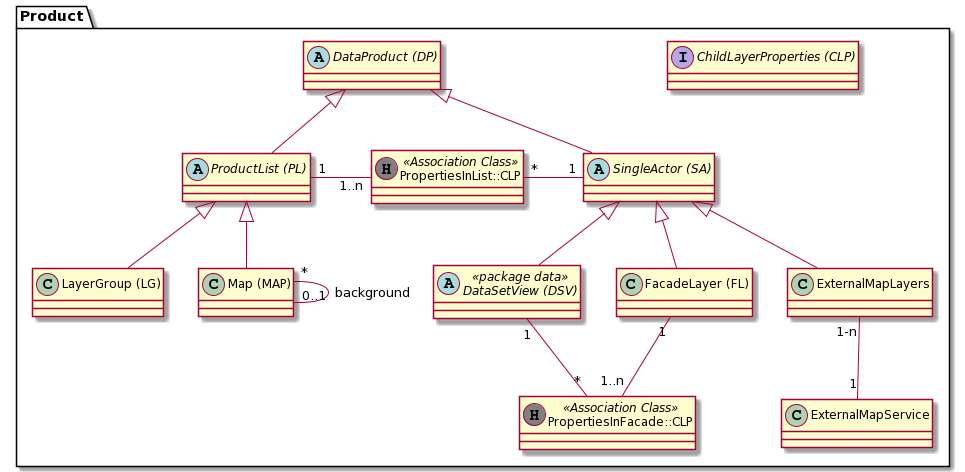
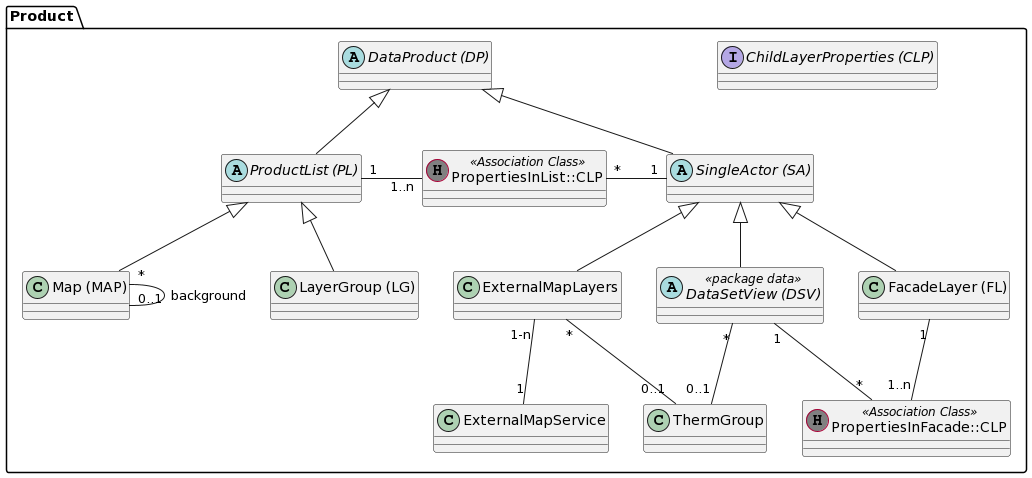
groom, doc

diff --git a/webapp/modules/core/test/ch/so/agi/simi/core/entity/EntityLoadingTest.java b/webapp/modules/core/test/ch/so/agi/simi/core/entity/EntityLoadingTest.java
@@ -11,6 +11,9 @@ import ch.so.agi.simi.entity.data.datasetview.RasterView;
 import ch.so.agi.simi.entity.data.datasetview.TableView;
 import ch.so.agi.simi.entity.data.datasetview.ViewField;
 import ch.so.agi.simi.entity.product.*;
+import ch.so.agi.simi.entity.theme.org.Agency;
+import ch.so.agi.simi.entity.theme.org.OrgUnit;
+import ch.so.agi.simi.entity.theme.org.SubOrg;
 import com.haulmont.cuba.core.global.AppBeans;
 import com.haulmont.cuba.core.global.DataManager;
 import com.haulmont.cuba.core.global.LoadContext;
@@ -46,13 +49,13 @@ class EntityLoadingTest {
     }
 
     @Test
-    void dataTheme_OK() {
+    void dbSchema_OK() {
         loadEntityViews(
                 DbSchema.class,
                 new String[]{
-                        "dataTheme-browse",
-                        "dataTheme-edit",
-                        "postgresTable-edit-themes"
+                        "dbSchema-browse",
+                        "dbSchema-edit",
+                        "postgresTable-edit-dbSchemas"
                 });
     }
 
@@ -278,6 +281,30 @@ class EntityLoadingTest {
                         "thermGroup-edit",
                         "thermGroup-browse"
                 }
+        );
+    }
+
+    @Test
+    void org_OrgUnit_OK(){
+        loadEntityView(
+                OrgUnit.class,
+                "orgUnit-browse"
+        );
+    }
+
+    @Test
+    void org_Agency_OK(){
+        loadEntityViews(
+                Agency.class,
+                new String[]{"agency-edit","subOrg-agency-lookup"}
+        );
+    }
+
+    @Test
+    void org_SubOrg_OK(){
+        loadEntityView(
+                SubOrg.class,
+                "subOrg-edit"
         );
     }
 

diff --git a/webapp/modules/core/test/ch/so/agi/simi/core/copy/CopyServiceBeanTest.java b/webapp/modules/core/test/ch/so/agi/simi/core/copy/CopyServiceBeanTest.java
@@ -555,6 +555,7 @@ class CopyServiceBeanTest {
 
             PostgresTable tbl = container.metadata().create(PostgresTable.class);
             tbl.setTableName(TV_TABLE_STRING);
+            tbl.setTitle(TV_TABLE_STRING);
             tbl.setIdFieldName("fuu");
             tbl.setCatSyncStamp(LocalDateTime.now());
             tbl.setDbSchema(dt);

diff --git a/webapp/modules/web/test/ch/so/agi/simi/web/beans/dbSchema/ThemeReaderBeanTest.java b/webapp/modules/web/test/ch/so/agi/simi/web/beans/dbSchema/ThemeReaderBeanTest.java
@@ -265,7 +265,7 @@ public class ThemeReaderBeanTest {
 
     private static DbSchema themeCreateMock(){
         PostgresDB db = new PostgresDB();
-        db.setDbIdentifier("mydb");
+        db.setIdentifier("mydb");
 
         DbSchema theme = new DbSchema();
         theme.setPostgresDB(db);

diff --git a/modeldoc/product.md b/modeldoc/product.md
@@ -23,9 +23,9 @@ Beispiele:
 |identPart|String(100)|n|Manuell erfasster (Teil-)Identifier|
 |hasFullIdent|Boolean|j|Ist in identPart ist der komplette Identifier enthalten? Beispielsweise themenübergreifende Datenprodukte|
 |pubScope|enum|j|Gibt an, in welchen Diensten und Applikationen das DP publiziert ist. Details siehe [hier](../metamodel.md#ebenenpublikation-in-dataproduct).|
-|keywords|String(200)|n|Stichworte für das DataProduct. Können auch thematische Überbegriffe sein.|
+|keywords|String(200)|n|**DEPRECATED** Stichworte für das DataProduct. Können auch thematische Überbegriffe sein.|
 |remarks|String|n|Interne Bemerkungen.|
-|synonyms|String(200)|n|Synonyme für das DataProduct.|
+|synonyms|String(200)|n|**DEPRECATED** Synonyme für das DataProduct.|
 |title|String(200)|n|Angezeigter Titel (Bezeichnung) des Dataproduct. Falls null in Erstellungsphase wird identifier verwendet.|
 |description|String(1000)|n|Beschreibung. Ziel: < 500 Zeichen Text. Kann HTML-Markup enthalten (\<br\/\>, \<a ...\>\<\/a\>)|
 |_identUnique|String(100)|j|Zusammengesetzter eindeutiger identifier. Idee: \[ThemePub-UUID\].identPart|
@@ -198,3 +198,17 @@ Attributierte Verknüpfungstabelle der m:n Beziehung zwischen PL und SA.
 ### Konstraints
 
 UK über die FK's.
+
+## Klasse ThermGroup (Schlüsselwort-Gruppe)
+
+Definiert die Synonyme und Stichworte für einen "Kontext". Der Kontext wird mit dem Attribut "name" gekennzeichnet und kann ein Thema, eine Tabelle, ein DataSetView sein.
+
+Falls mit "name" ein ganzes Thema als Kontext erfasst ist, wird die ThermGroup jeder DSV im Thema zugewiesen.
+
+### Attributbeschreibung
+
+|Name|Typ|Z|Beschreibung|
+|---|---|---|---|
+|name|String(255)|j|Kennung für den Kontext, für welchen die ThermGroup erstellt wurde (und gültig ist).<br>\[Thema\] (z.B: geologie)<br>\[Thema\].\[Tabelle\] (z.B: geologie.grundschicht)|
+|keywords|String(800)|n|Als Json-Array formattierter String aller Keywords dieser ThermGroup|
+|synonyms|String(800)|n|Als Json-Array formattierter String aller Synonyme dieser ThermGroup|

diff --git a/webapp/modules/core/db/update/postgres/changes_from_to_overview.md b/webapp/modules/core/db/update/postgres/changes_from_to_overview.md
@@ -22,3 +22,9 @@ Bemerkung: Das Framework macht
 |---|---|
 |Product: Stichworte und Synonyme in ThermGroup|02B|
 |Theme: Organisation (Contact)|02D|
+
+## 6. Juli 2022
+
+|Änderung|Ordner|
+|---|---|
+|Theme: FileType|06A|
